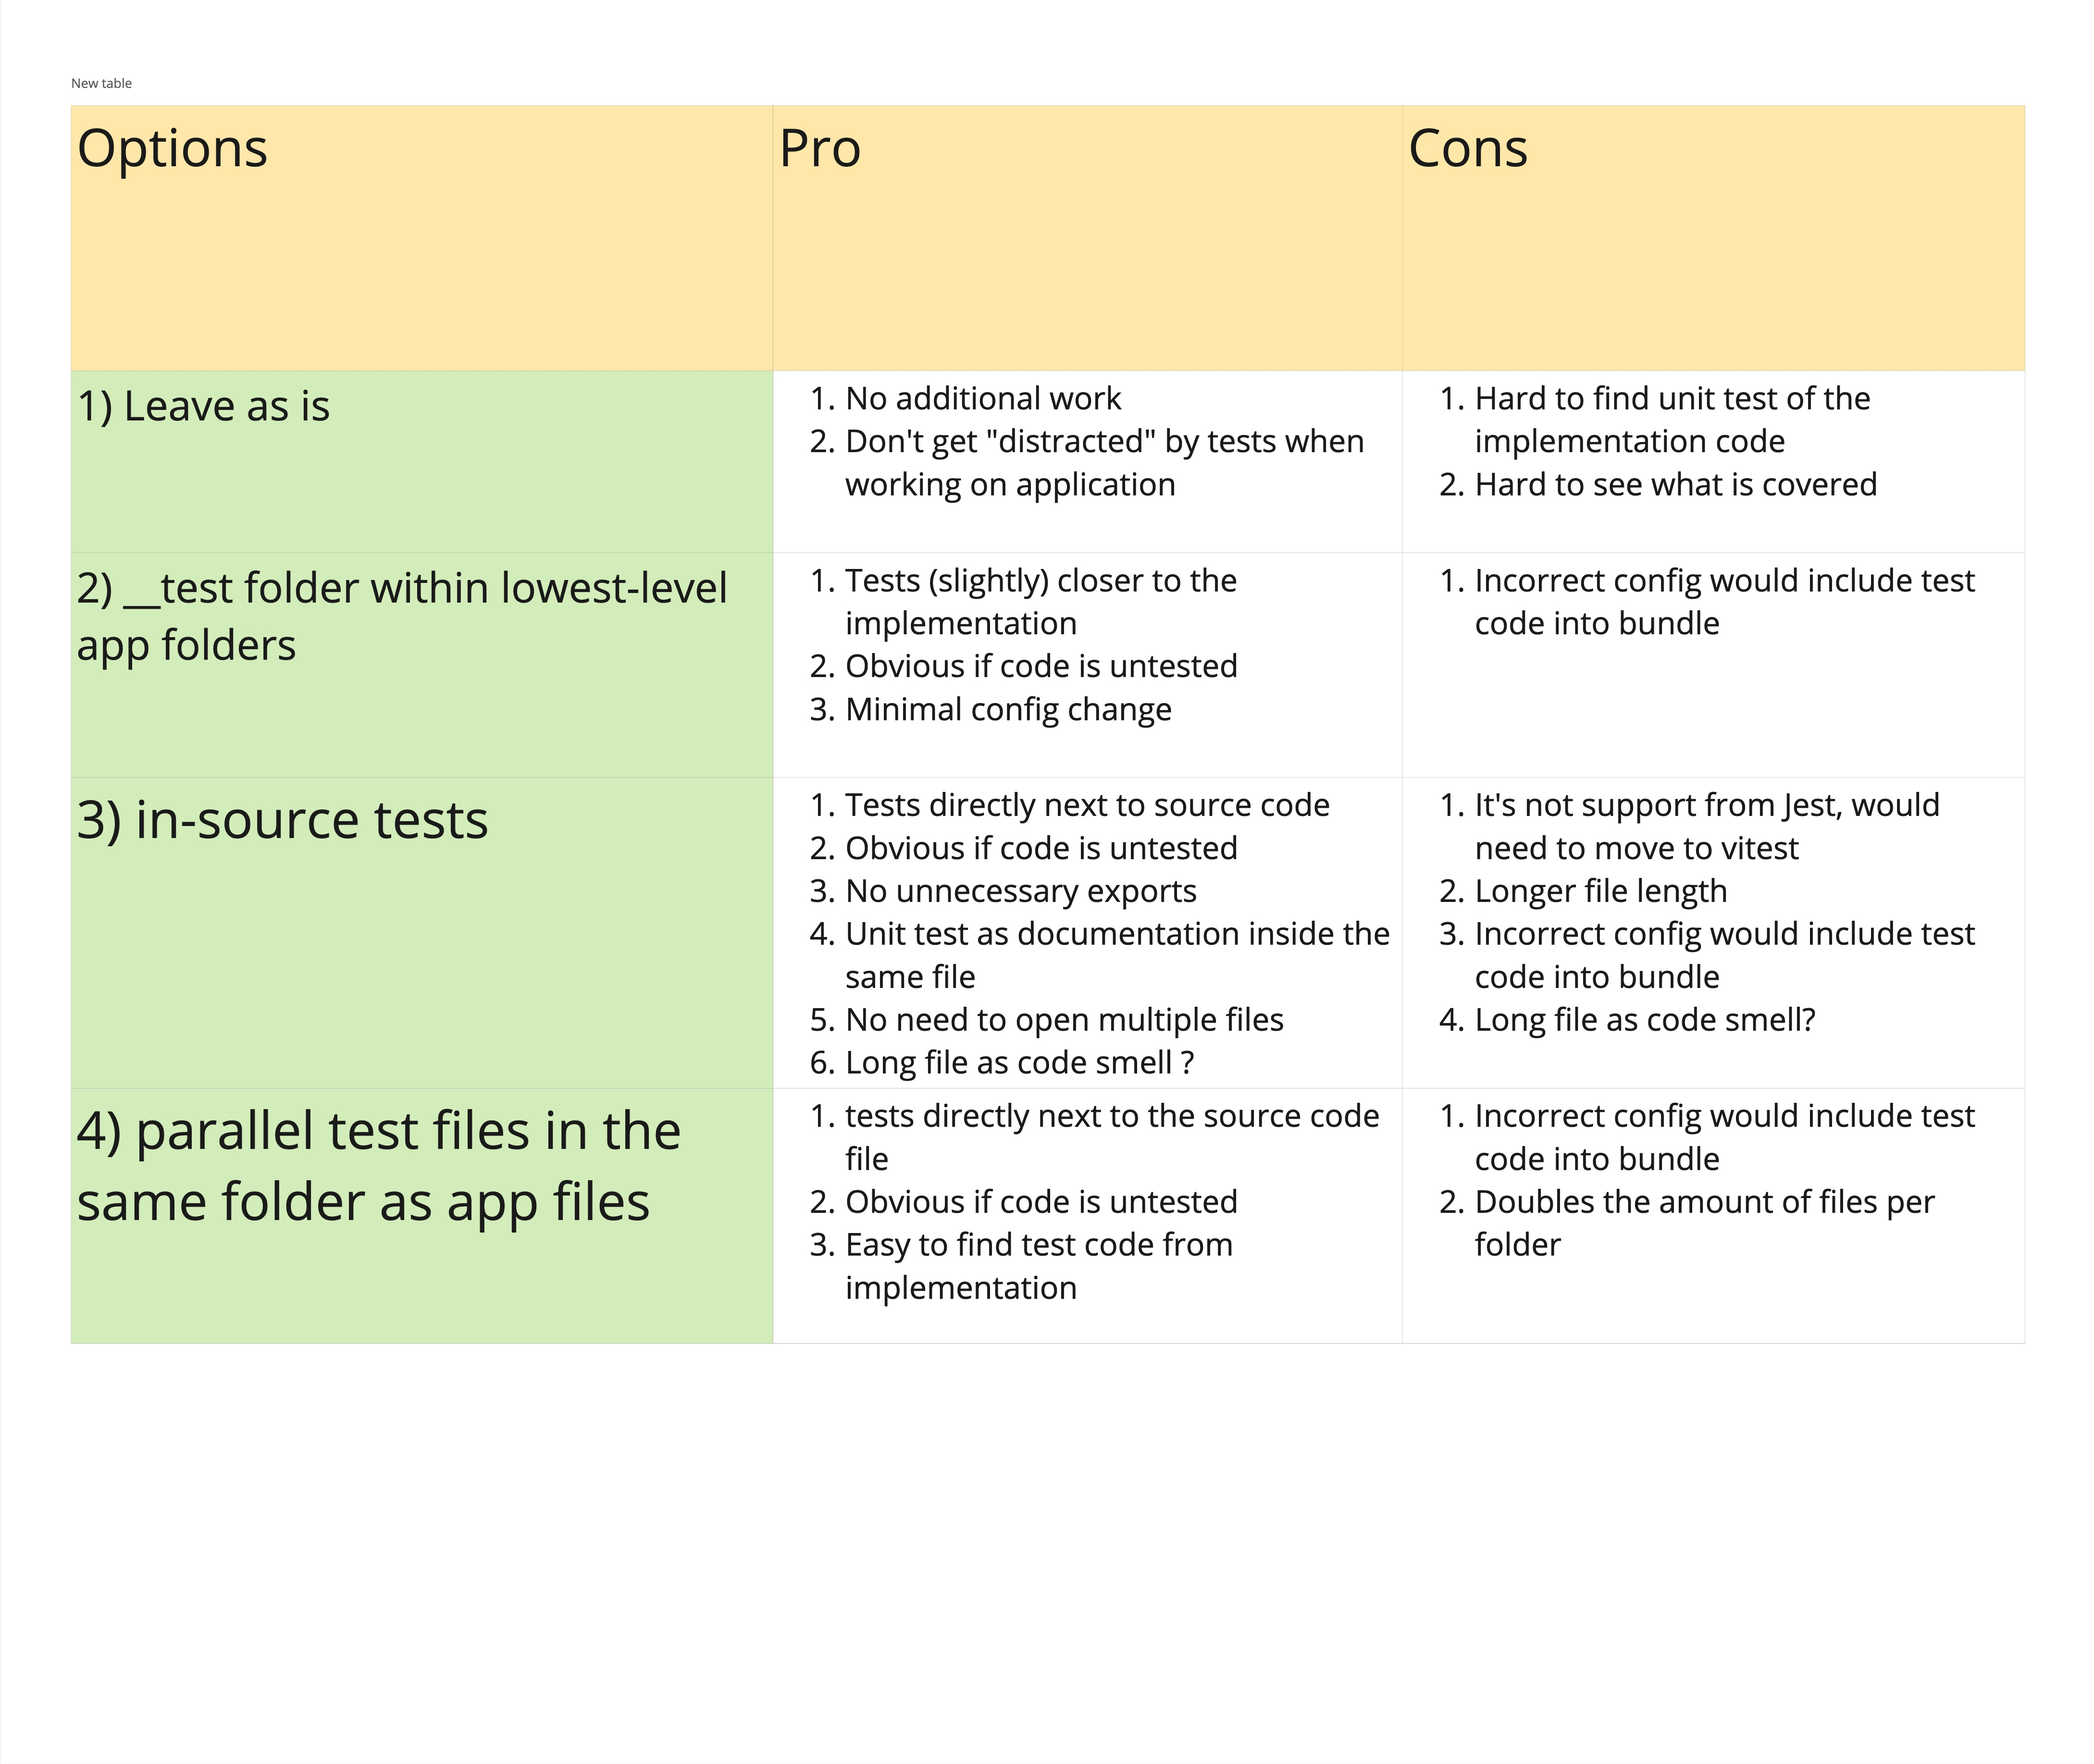
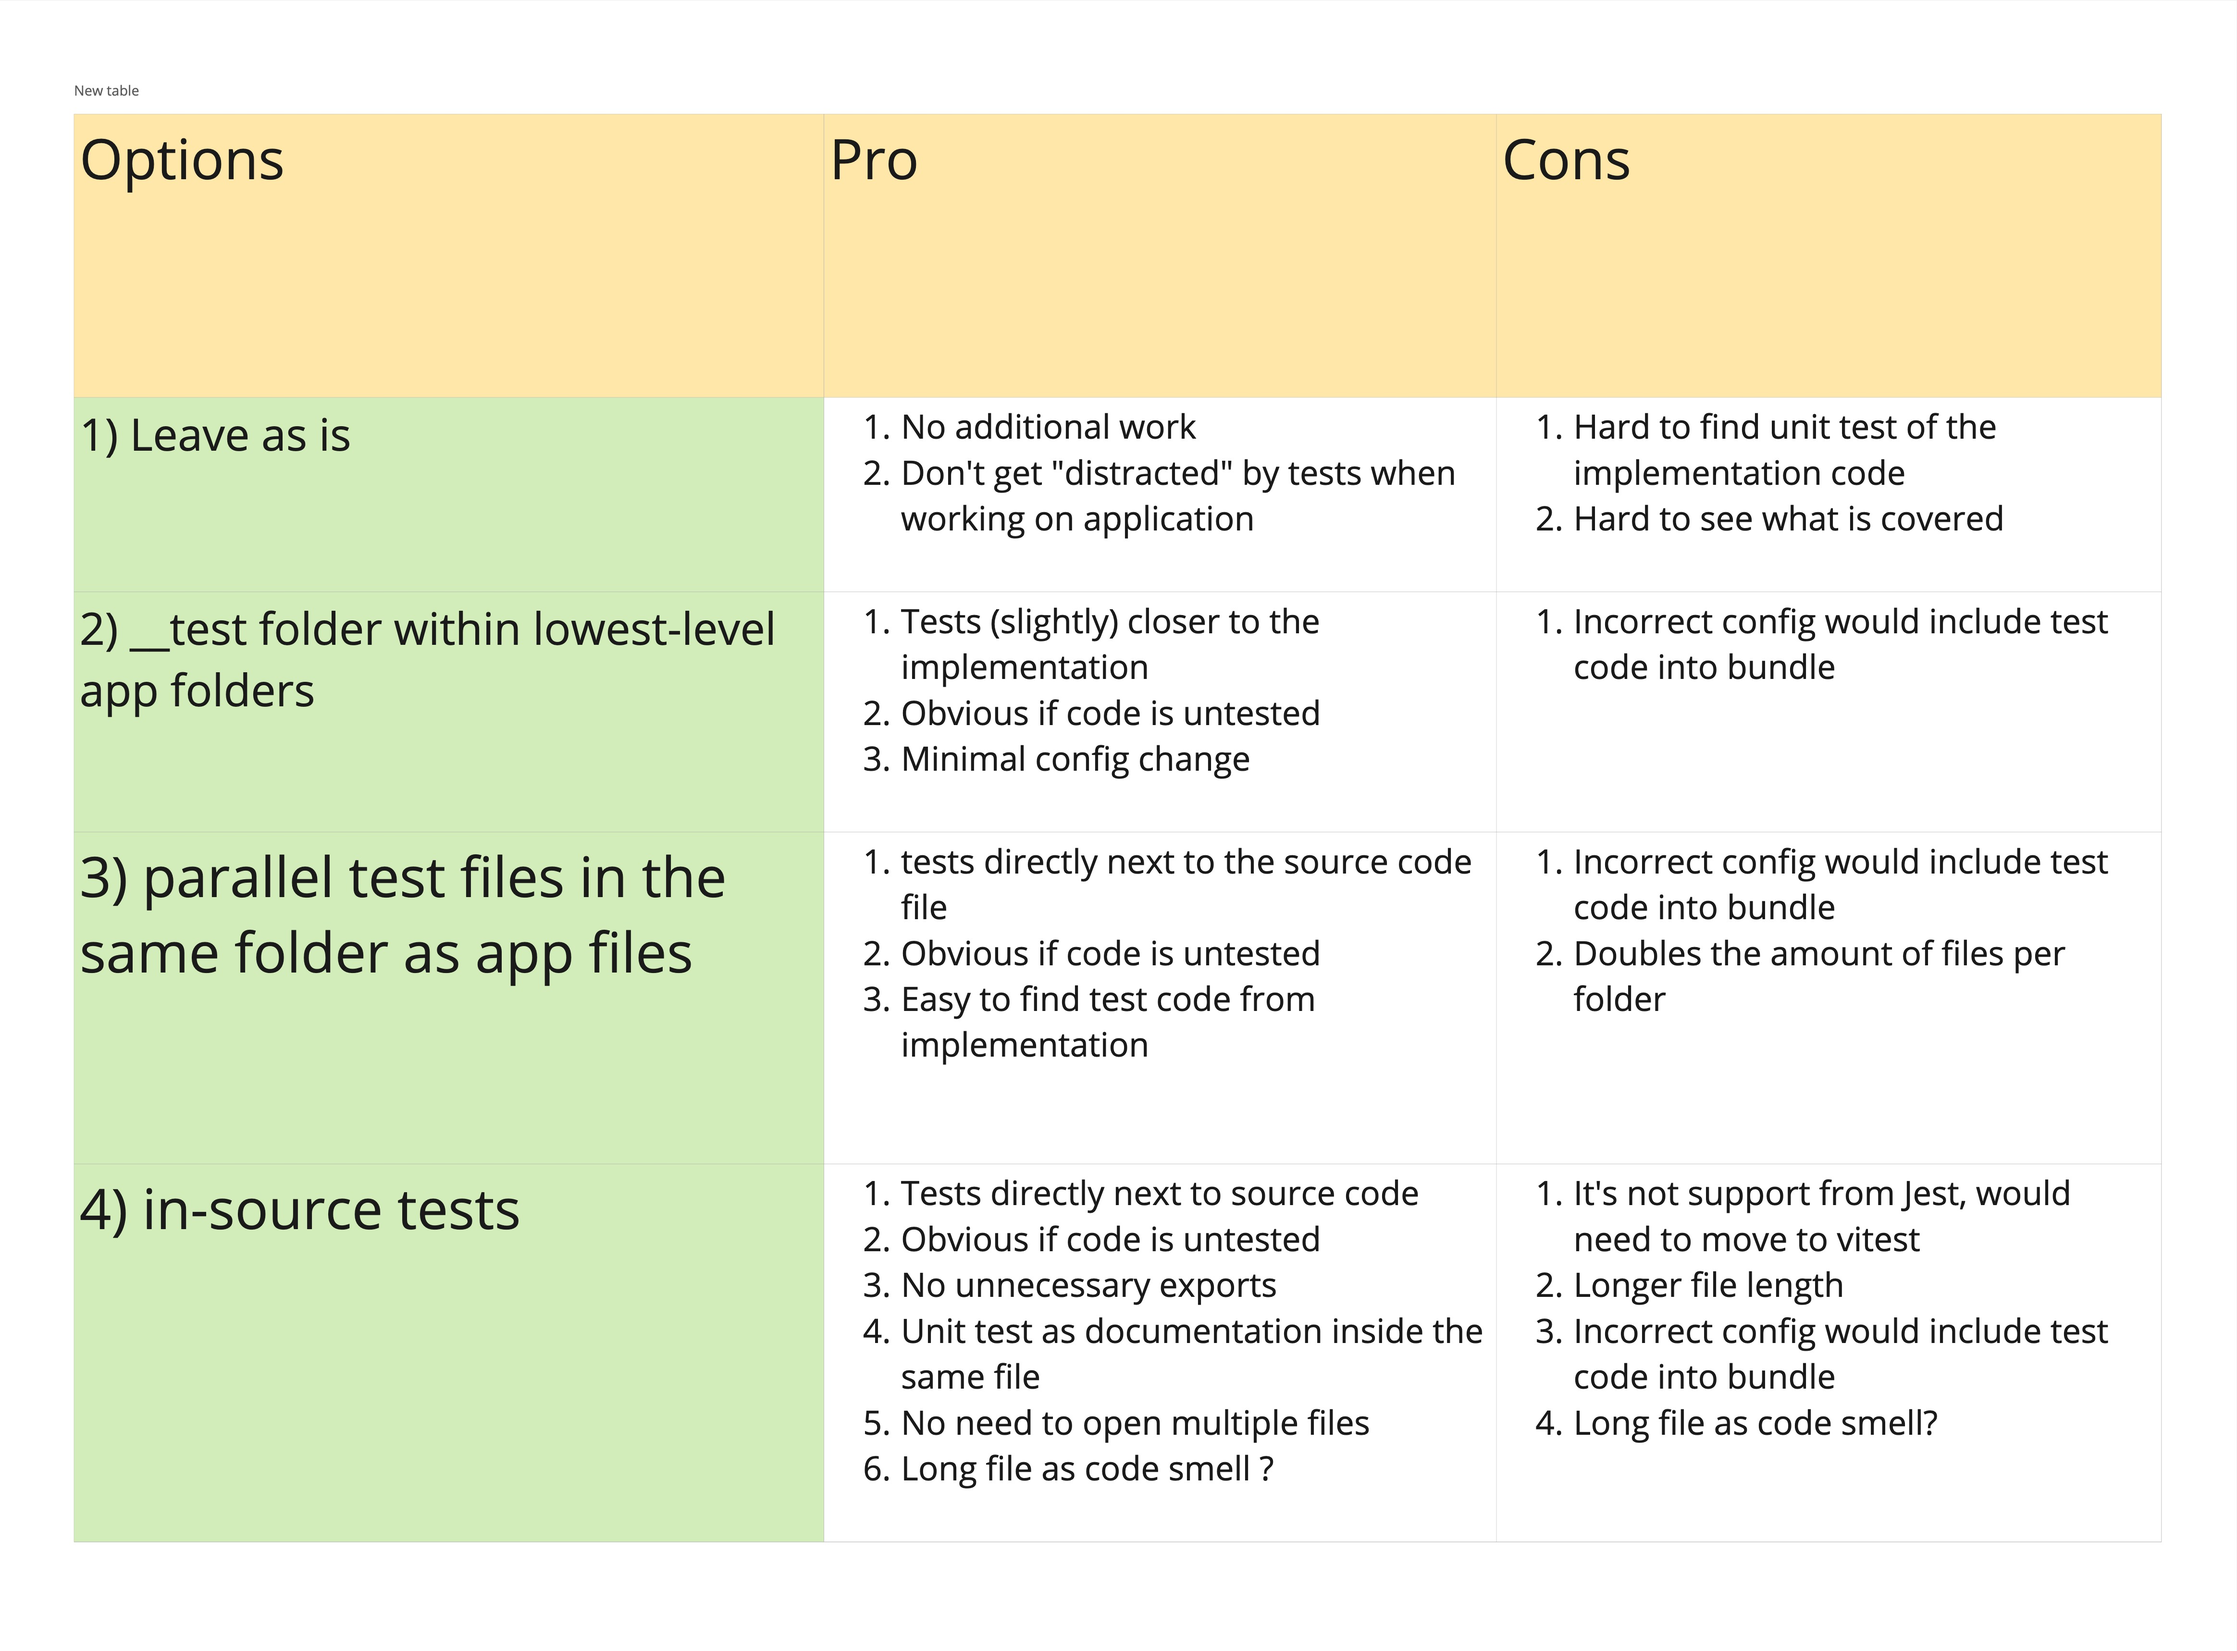
docs: add adr improvements

diff --git a/doc/adr/0003-unit-tests-folder-structure.md b/doc/adr/0003-unit-tests-folder-structure.md
@@ -13,13 +13,14 @@ Our team acknowledges several issues with our current unit test folder structure
 - Difficulty in locating unit tests corresponding to implementation code
 - Lack of clarity regarding test coverage
 - Challenges in writing new unit tests for newly implemented code due to separation from the codebase.
+- Need to independently rearrange test folders when files are moved to another path
 
 To address these concerns, we have identified the following options:
 
-1. Leave as is
+1. Leave as is and accept the drawbacks
 2. Add `__test__` folder within lowest-level app folders
-3. In-source tests
-4. Parallel test files in the same folder as app files
+3. Parallel test files in the same folder as app files
+4. In-source tests
 
 The pros and cons of these options are outlined in the image below:
 
